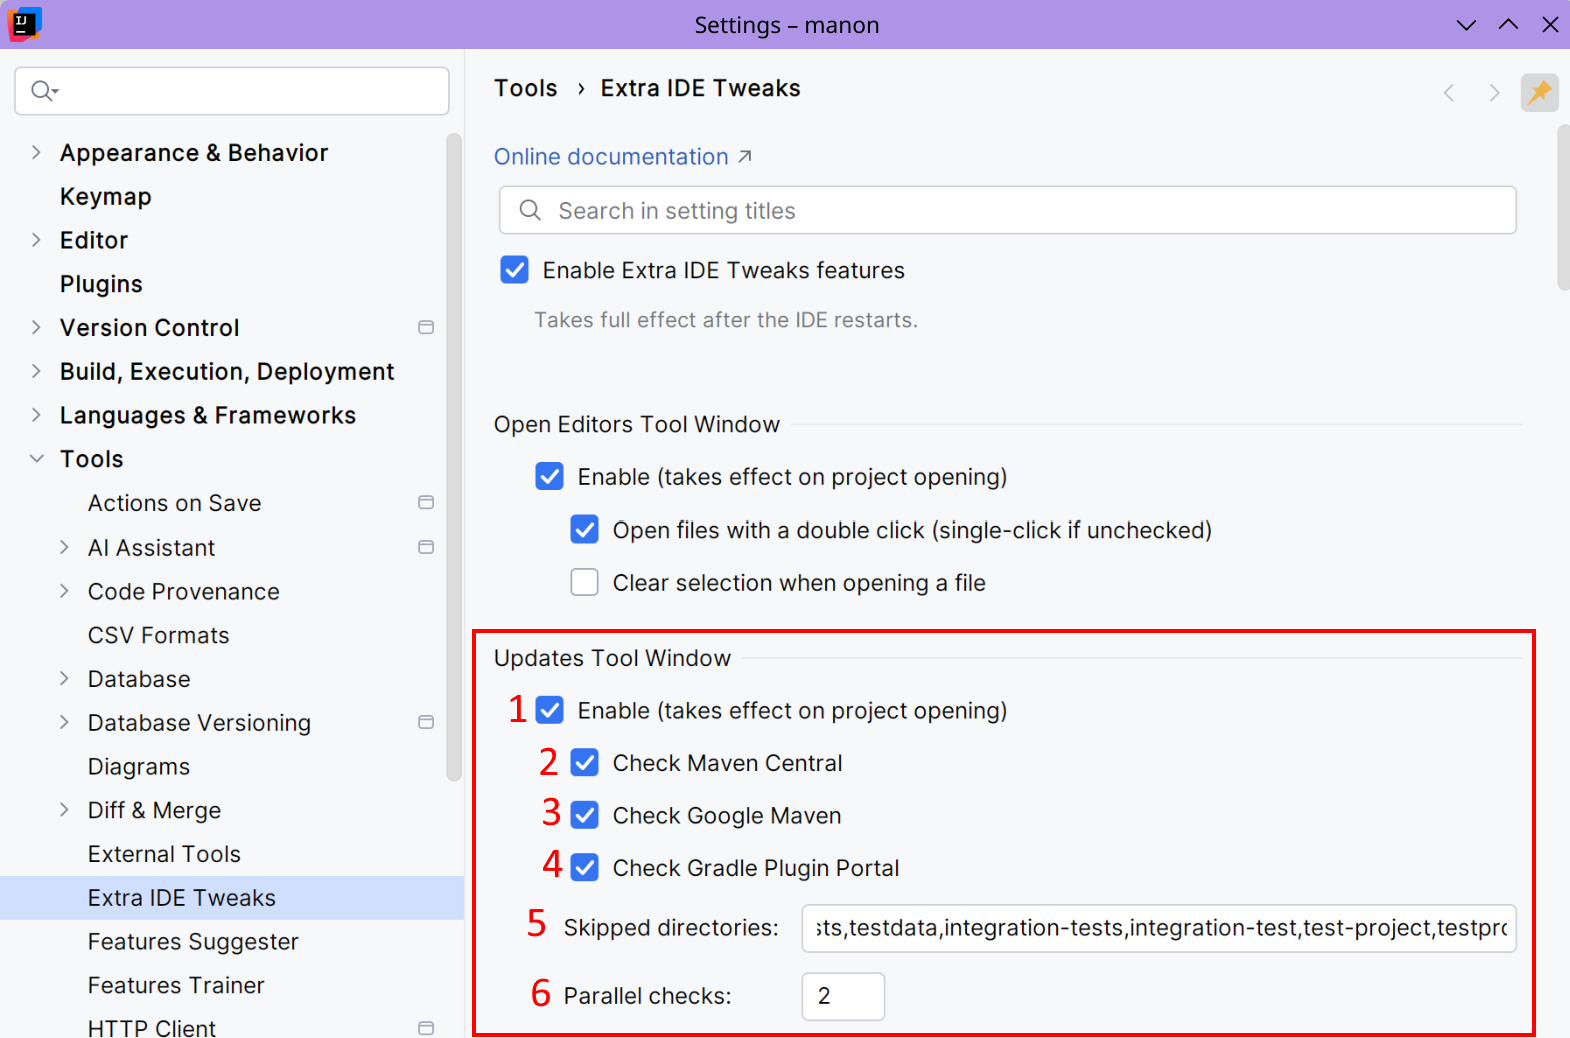
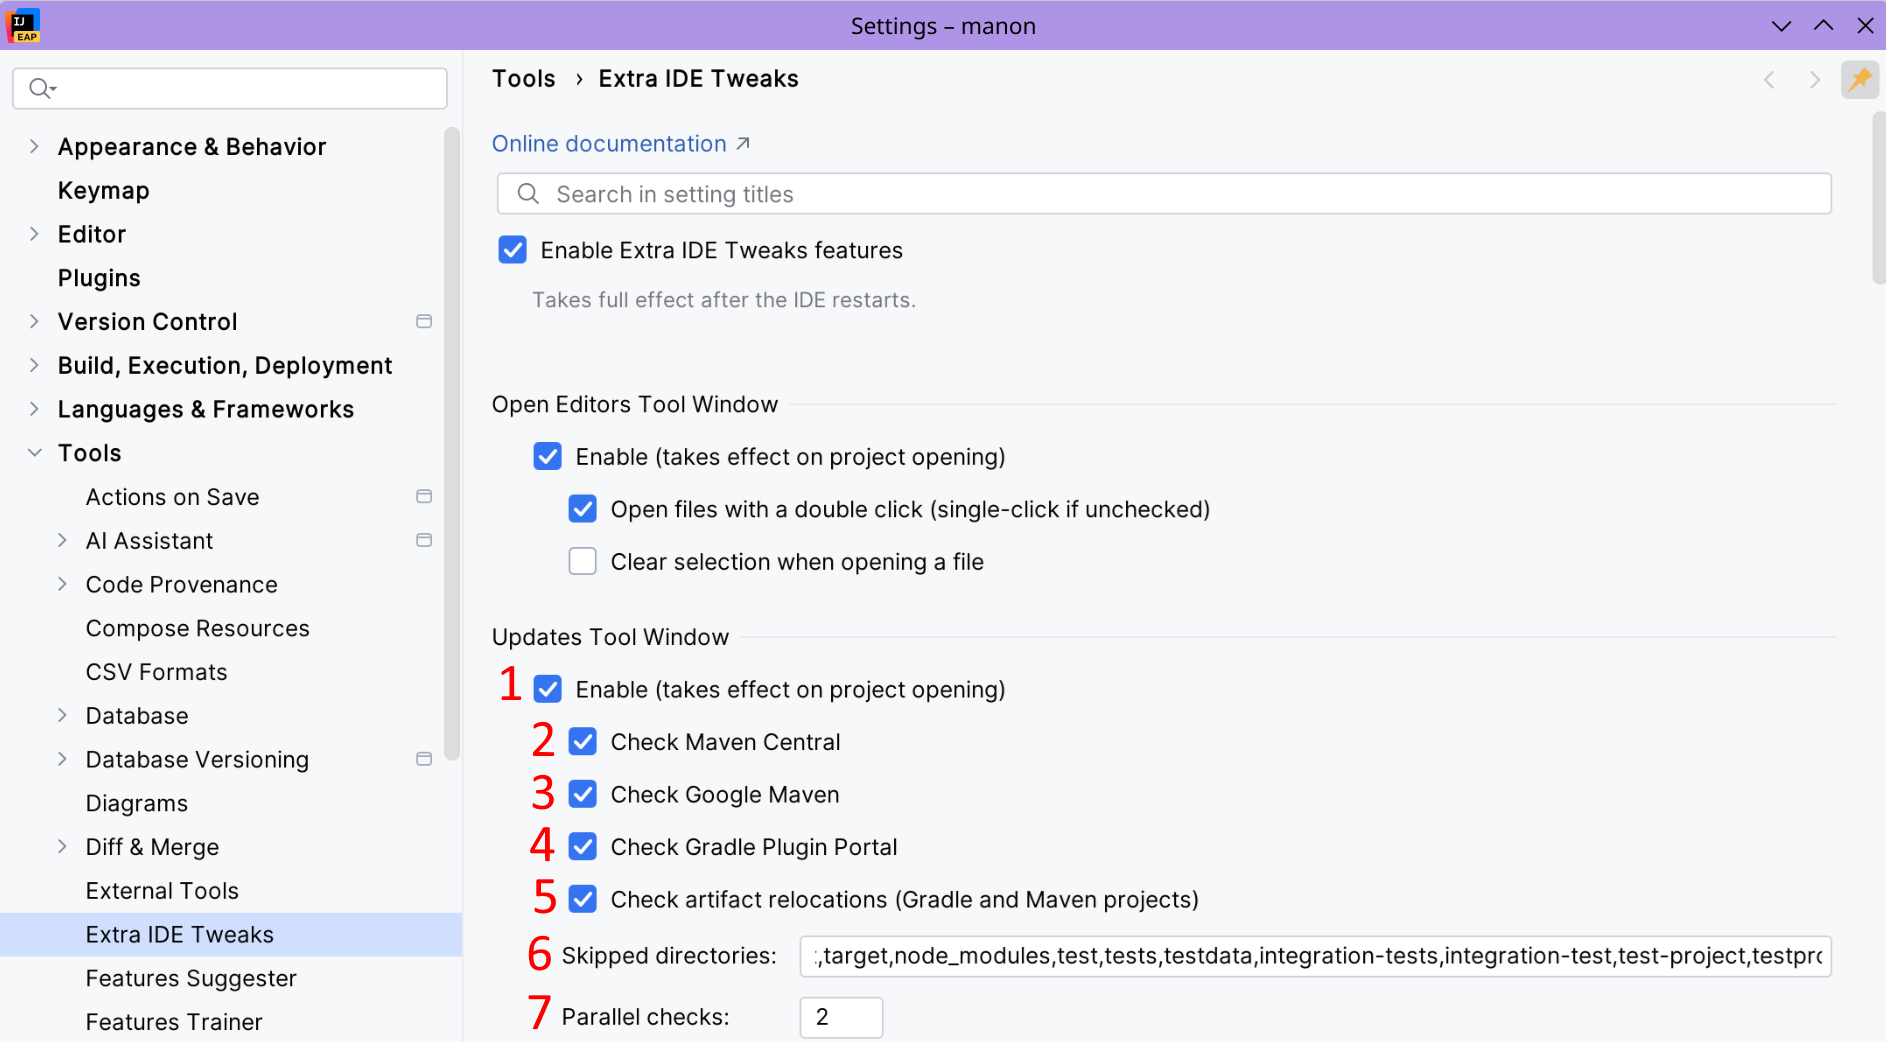
latest version

diff --git a/manual/topics/extra-ide-tweaks/Extra-IDE-Tweaks-Updates.md b/manual/topics/extra-ide-tweaks/Extra-IDE-Tweaks-Updates.md
@@ -3,31 +3,36 @@
 # Updates (experimental)
 
 The Updates tool window finds updates for:
-- Gradle project, like libraries and Gradle plugins, whether they are declared in build scripts or in a version catalog - with their current version and the latest version available online.
+- Gradle project, like libraries and Gradle plugins, whether they are declared in build scripts or in a version catalog - with their current version and the latest version available online.  
+  Artifacts relocations are also detected by using the definitions of the [Old GroupIds Alerter - Maven Plugin](https://github.com/jonathanlermitage/oga-maven-plugin).
 - Maven project: it lists the dependencies read from the `pom.xml` files - libraries, BOMs, Maven plugins, build extensions, the parent POM, and the Maven distribution pinned by the Maven wrapper - with their current version and the latest version available online.  
+  Artifacts relocations are also detected by using the definitions of the [Old GroupIds Alerter - Maven Plugin](https://github.com/jonathanlermitage/oga-maven-plugin).
+- Node.js projects: it lists the dependencies read from the `package.json` files, and updates for the current Node.js runtime and NPM.
 
 You can check for updates on demand and on project opening.  
 Libraries and plugins are detected by reading the associated files. There is no need to re-sync or reload your project.
 
-I may add support for other build systems (including non-Java) later.
+I may add support for other build systems later. Feel free to share your ideas ;-)
 
 ## Configuration
 
-![](../../images/extra-ide-tweaks/extra-ide-tweaks-updates-cfg.png){ width="750" }
+![](../../images/extra-ide-tweaks/extra-ide-tweaks-updates-cfg.png){ width="750" }{ thumbnail="true" }
 
 1. Enable the Updates tool window feature.
 2. Choose to find updates from Maven Central.
 3. Choose to find updates from Google Maven (useful for Android projects).
 4. Choose to find updates from Gradle Plugin Portal.
-5. Some directories are ignored by default in order to speed up build scripts detection. If empty, a default list will be used.
-6. The number of parallel HTTP queries to do when checking for updates.
+5. Choose to find artifacts relocations (for Gradle and Maven only)
+6. Some directories are ignored by default in order to speed up build scripts detection. If empty, a default list will be used.
+7. The number of parallel HTTP queries to do when checking for updates.
 
 The Updates tool window will also detect custom Maven repositories and use them where possible. For now, it does not support any authentication methods.
 
 ## Usage
 
-![](../../images/extra-ide-tweaks/extra-ide-tweaks-updates.png){ width="700" }
+![](../../images/extra-ide-tweaks/extra-ide-tweaks-updates.png){ width="750" }{ thumbnail="true" }
 
-1. The Updates tool window shows updates for Gradle and Maven projects. If the current project contains Gradle files, a Maven tab is displayed. If the current project contains Maven files, a Maven tab is displayed. If both build tools are detected, both tabs are displayed. If no compatible build tools are detected, the Updates tool window does not appear.
-2. A list of detected libraries and plugins, showing their current version and the latest available version, where applicable. You can double-click on a row to view its declaration.
-3. Using this toolbar, you can check for updates, filter libraries and plugins to display only those with updates, and access a declaration. The cog icon allows you to search for pre-release versions and check for updates whilst the project is loading. When you check for updates on opening the project, a notification appears with a summary of the available updates.
+1. The Updates tool window shows updates for Gradle, Maven and Node.js projects. Each build tool has its own tab, and only the relevant tabs are displayed. If no compatible build tools are detected, the Updates tool window does not appear.
+2. A list of detected libraries and plugins, showing their current version, and the latest available version where applicable. You can double-click on a row to view its declaration.
+3. Libraries and plugins can also have relocation candidates. Clicking on a relocation will open a popup showing detailed information, and the new artifact coordinates in the form of copyable text.
+4. Using this toolbar, you can check for updates, filter libraries and plugins to display only those with updates or relocations, and access a declaration. The cog icon allows you to search for pre-release versions and check for updates whilst the project is loading. When you check for updates or relocations on opening the project, a notification appears with a summary of the available updates or relocations.
